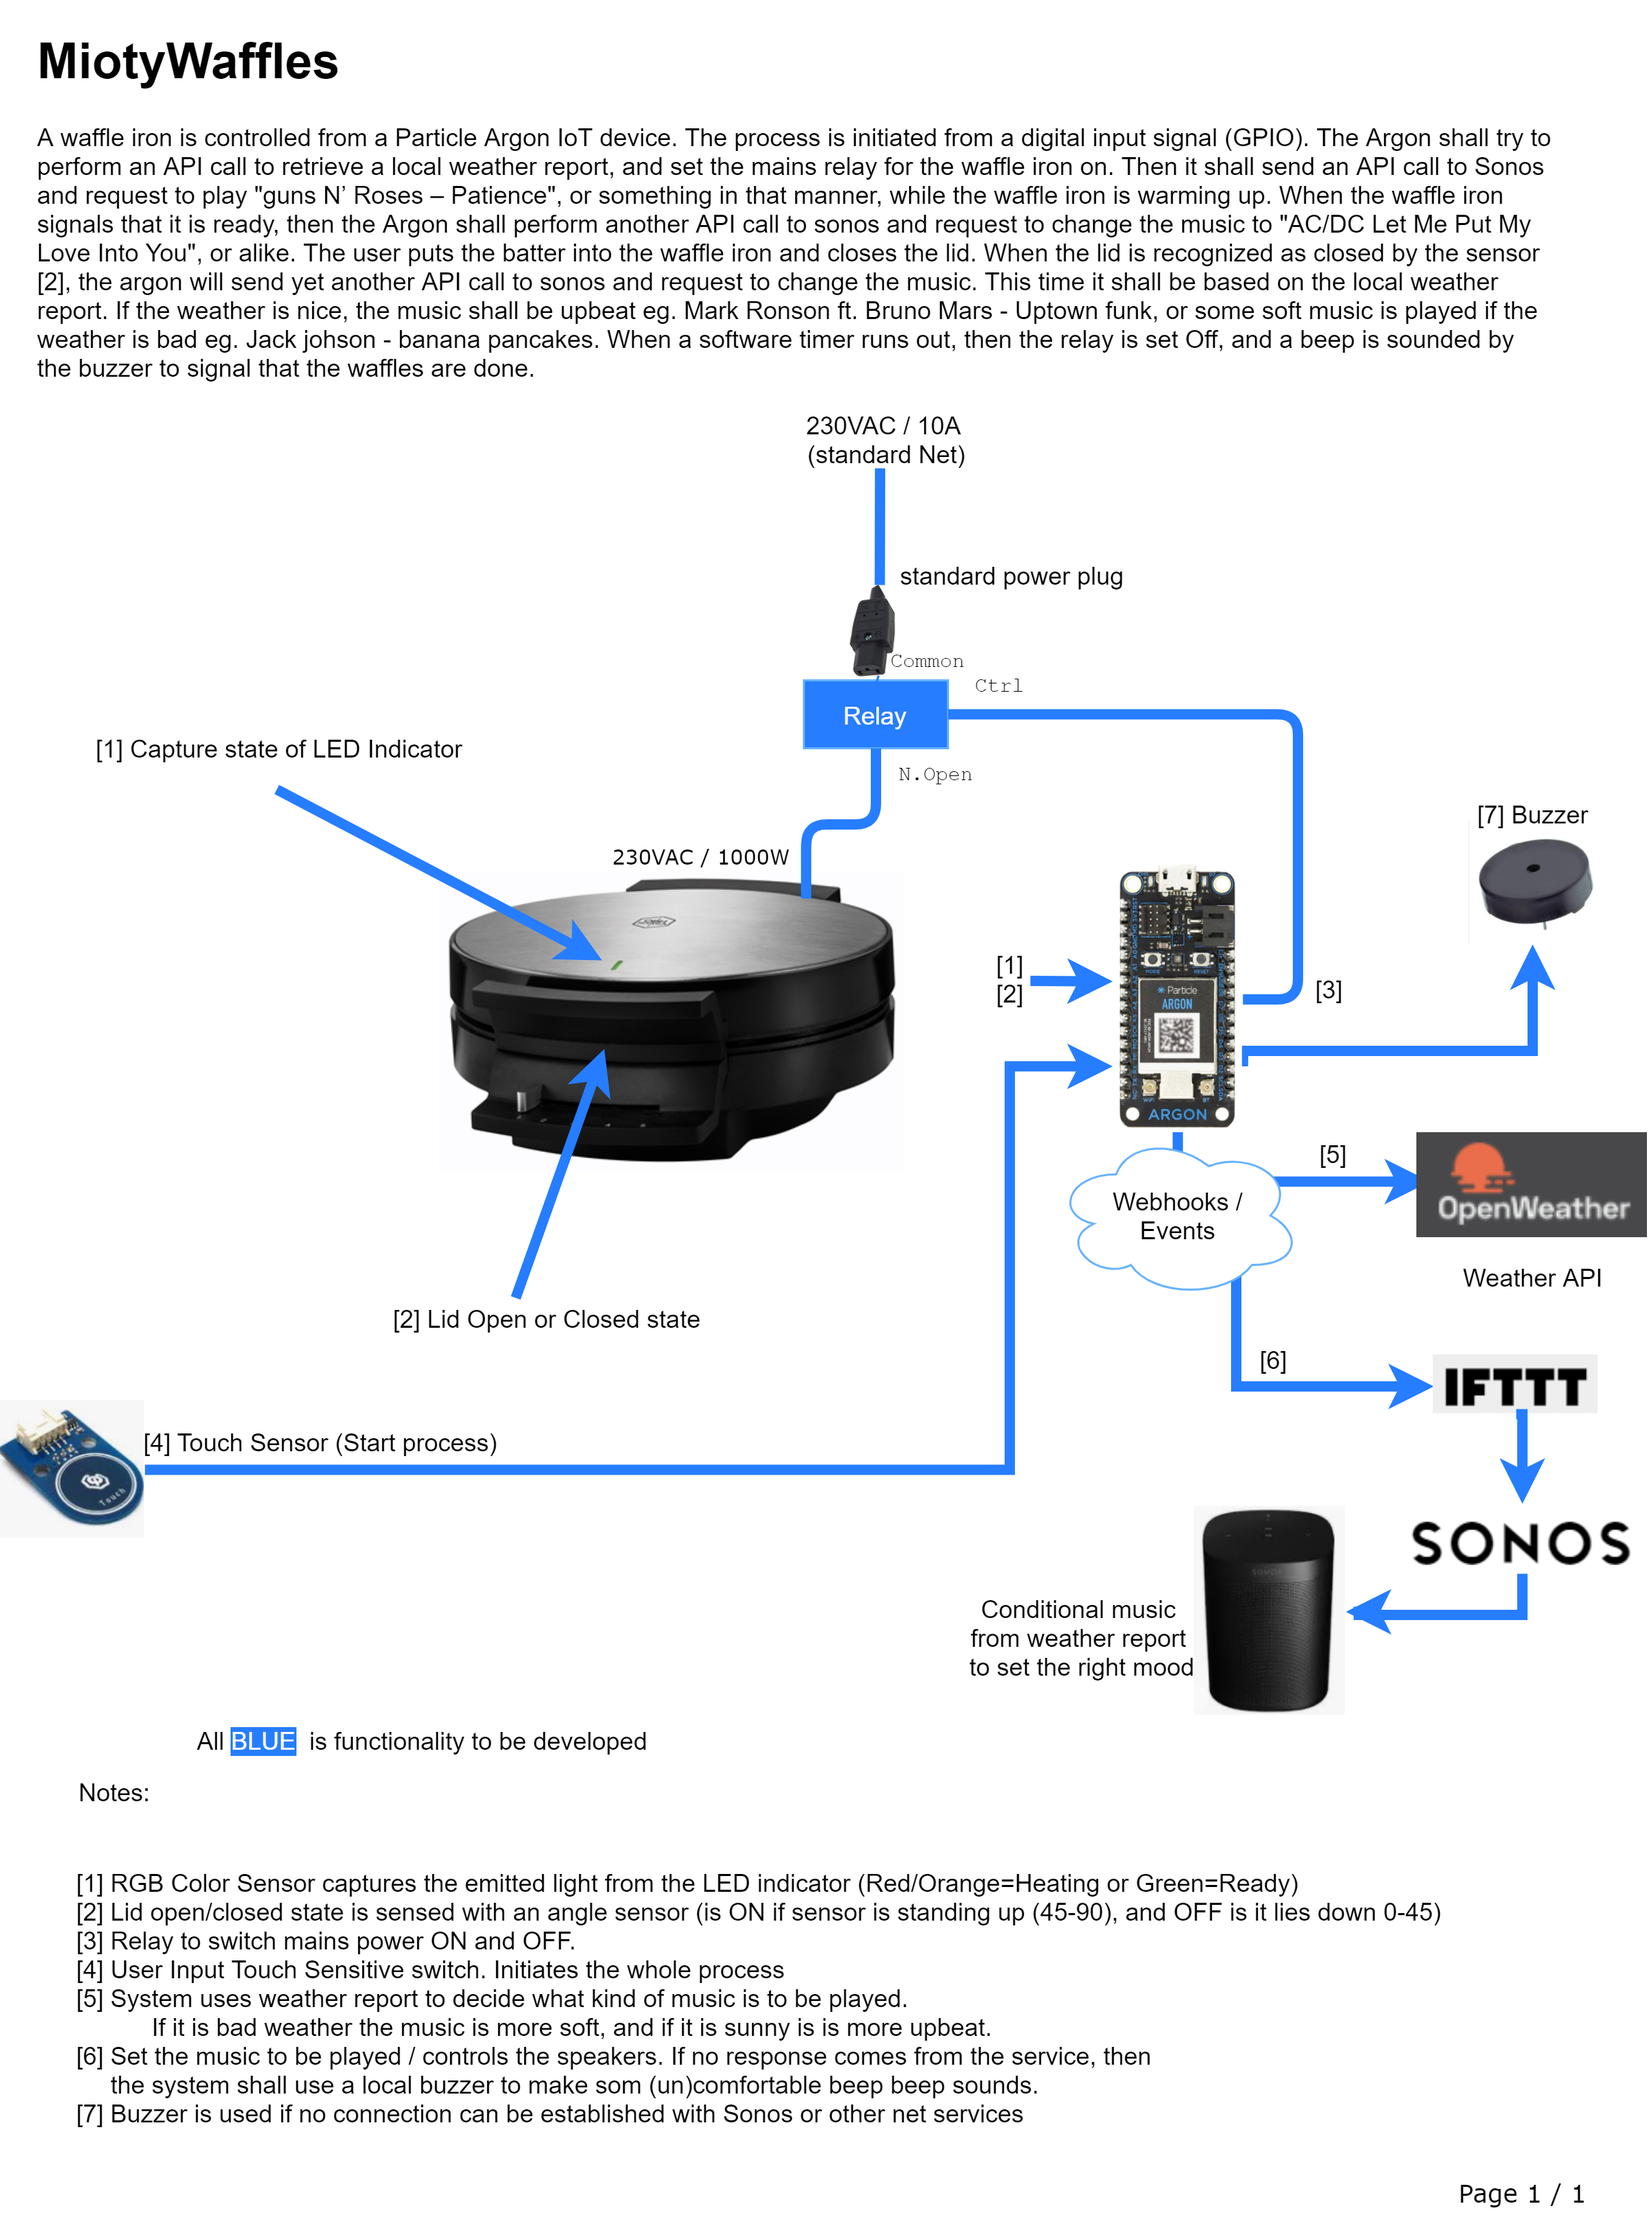
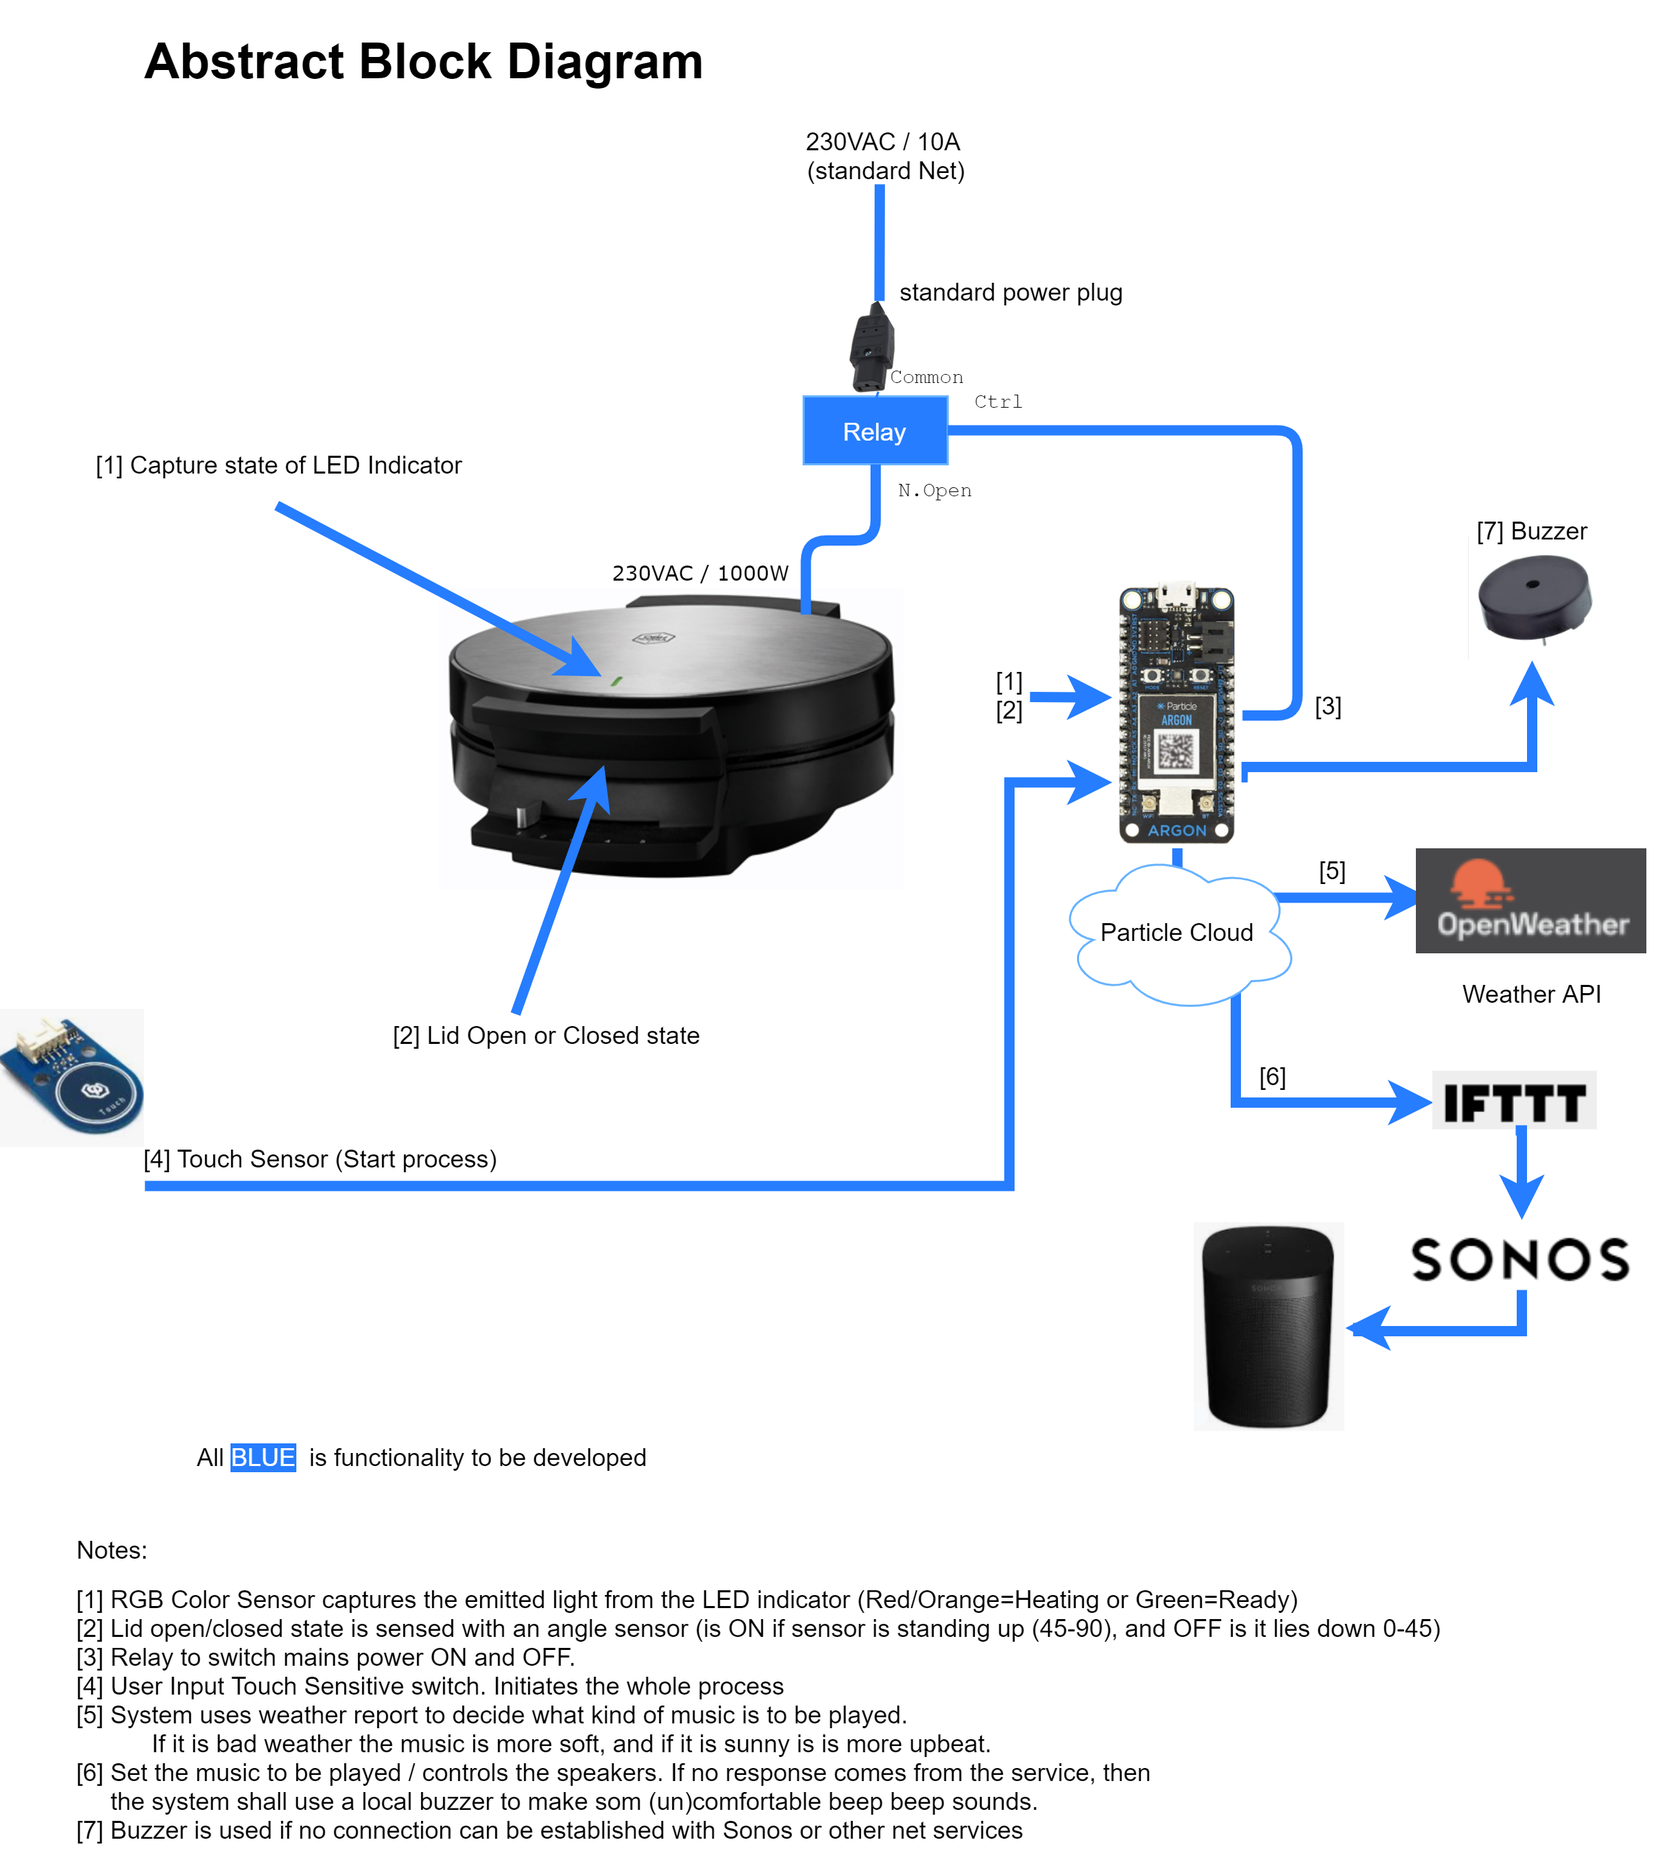
Update image and readme

diff --git a/README.md b/README.md
@@ -1,4 +1,17 @@
 # MiotyWaffles IoT Project
 Make a Waffle Iron change music based on the weather report, and the state of the Waffle Iron.
 
+## Process Description
+A waffle iron is controlled from a Particle Argon IoT device. 
+
+1. The process is initiated from a digital input signal (GPIO).
+2. The IoT device shall try to send an API call to retrieve a local weather report, and set the mains relay for the waffle iron ON.
+3. Then it shall send an API call to Sonos and request to play "guns N’ Roses – Patience", or alike, while the waffle iron is warming up. 
+4. When the waffle iron signals that it is ready, then the IoT device shall perform another API call to sonos and request to change the music to "AC/DC Let Me Put My Love Into You", or alike. 
+5. The user puts the waffle batter into the waffle iron and closes the lid.
+6. When the lid is closed, then the IoT device sends a new event that will make sonos change the music. However this time it changes the music based on the local weather report that summarizes the current weather conditions. 
+    6. Weather is nice: The music will be upbeat eg. Mark Ronson ft. Bruno Mars - Uptown funk
+    6. Weather is "bad": The music will be more soft eg. Jack johson - banana pancakes. 
+7. When a timer run out, then the relay is set Off, and a beep is sounded by the buzzer to signal that the waffles are done. (The timer settings are to be established)
+
 ![MiotyWaffels](https://github.com/VintherWolf/miotywaffles/blob/master/doc/Bilag/09_Media/MiotyWaffles_TechnicalRichPicture.png?raw=true)
